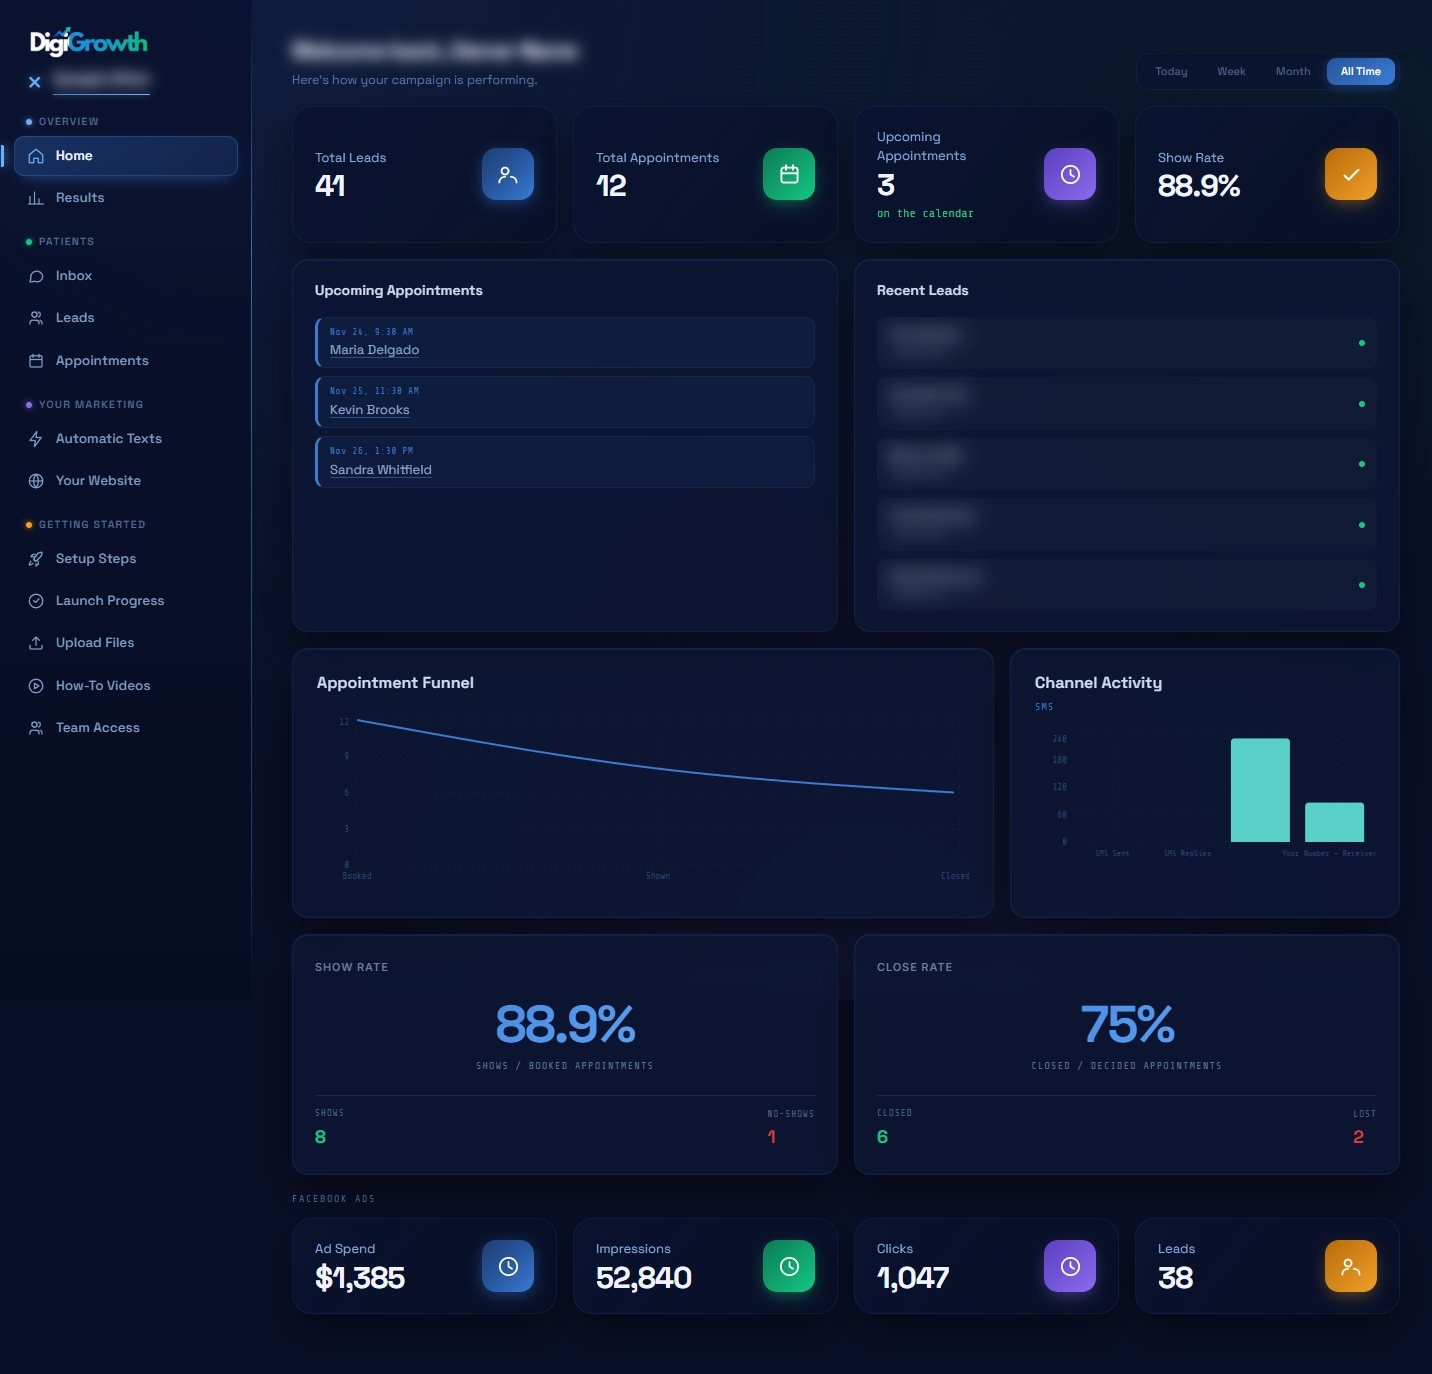
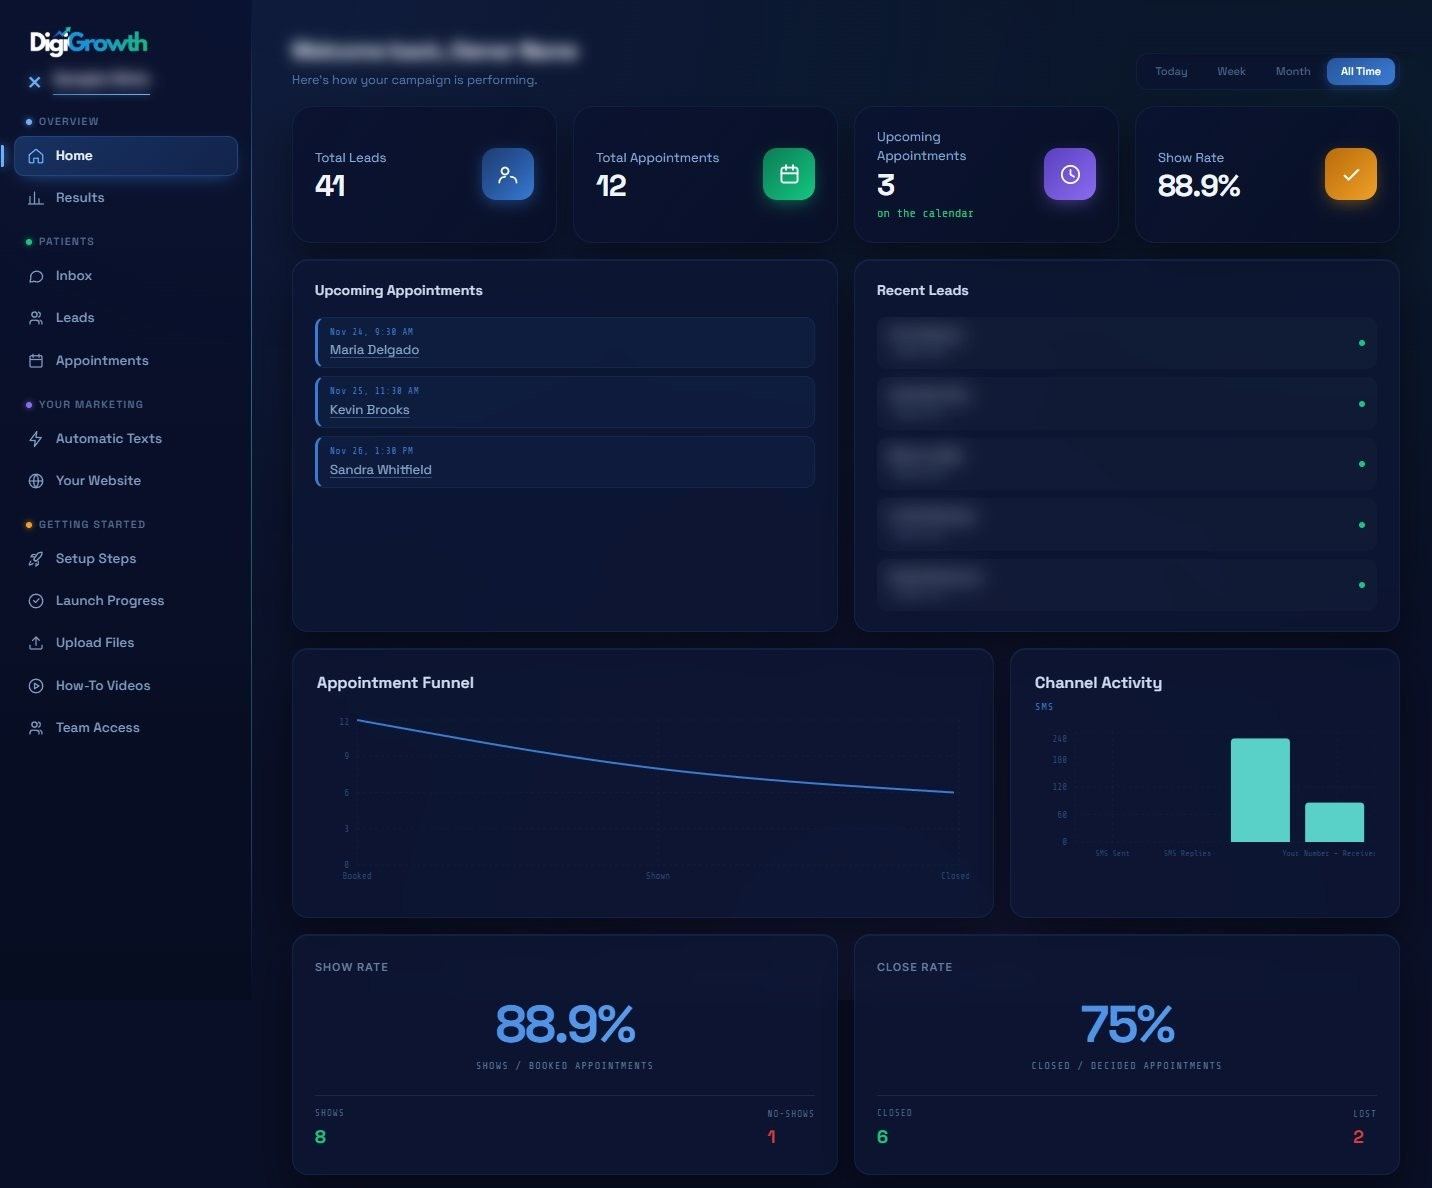
Pinnacle follow-ups use its DigiGrowth booking page; crop Facebook Ads row off client results images
- client_followup_sequence: {link} = the client's DigiGrowth Booking page when enabled (was a leftover Calendly link)
- db.py: test-client seed uses booking.digigrowthllc.com/discovery-call
- Booking page results gallery: images cropped above the Facebook Ads row, cache v=3

diff --git a/dashboard/backend/client_followup_sequence.py b/dashboard/backend/client_followup_sequence.py
@@ -283,6 +283,8 @@ async def send_due_touches():
             f"""
             SELECT c.*, cl.name AS client_name,
                    coalesce(nullif(cmc.calendly_event_type_url, ''), cl.calendly_url) AS booking_link,
+                   (SELECT bs.booking_slug FROM booking_settings bs
+                     WHERE bs.client_id = c.client_id AND bs.enabled) AS dg_booking_slug,
                    (SELECT MAX(m.created_at) {_THREAD_SQL.format(direction='outbound')}) AS last_outbound_at,
                    (SELECT MAX(m.created_at) {_THREAD_SQL.format(direction='inbound')}) AS last_inbound_at
             FROM contacts c
@@ -306,6 +308,10 @@ async def send_due_touches():
 
         for record in rows:
             row = dict(record)
+            # DigiGrowth Booking wins over a leftover Calendly link when it's on.
+            if row.get("dg_booking_slug"):
+                import booking_engine
+                row["booking_link"] = booking_engine.booking_page_url(row["dg_booking_slug"])
             last_outbound_at = row["last_outbound_at"]
             last_inbound_at = row["last_inbound_at"]
             if last_outbound_at is None:

diff --git a/dashboard/backend/personal_booking_page.py b/dashboard/backend/personal_booking_page.py
@@ -179,7 +179,7 @@ function openResults() {
   m.className = "modal"; m.setAttribute("role", "dialog"); m.setAttribute("aria-modal", "true"); m.setAttribute("aria-label", "Example client results");
   m.innerHTML = `<div class="sheet"><button class="close" aria-label="Close">×</button><h2>Example client results <span class="h-stars" aria-hidden="true">★★★★★</span></h2>
     <p class="sub">Every client gets a live portal like this, showing leads, booked visits and cost per booking.</p>
-    ${RESULTS.map((r) => `<figure class="shot"><img src="${BASE}/results/${r.src}?v=2" alt="Client portal dashboard" loading="lazy"></figure>`).join("")}</div>`;
+    ${RESULTS.map((r) => `<figure class="shot"><img src="${BASE}/results/${r.src}?v=3" alt="Client portal dashboard" loading="lazy"></figure>`).join("")}</div>`;
   const close = () => { m.remove(); document.removeEventListener("keydown", onKey); };
   const onKey = (e) => { if (e.key === "Escape") close(); };
   m.onclick = (e) => { if (e.target === m) close(); };

diff --git a/dashboard/backend/db.py b/dashboard/backend/db.py
@@ -943,11 +943,11 @@ async def _create_schema(pool: asyncpg.Pool):
         # Same "stub what needs real per-client credentials" pattern as
         # Twilio/Gmail: no real client has connected their own Calendly yet,
         # so calendly_url stays NULL for everyone except the self-test
-        # client, which reuses DigiGrowth's own internal Calendly (the
+        # client, which reuses Dylan's own booking page (the
         # same CALENDLY_URL the OS's BookingModal.jsx uses) since it's
         # Dylan's own account either way. Idempotent, safe every startup.
         await conn.execute(
-            "UPDATE clients SET calendly_url = 'https://calendly.com/dylanrg-digigrowthllc/30min' "
+            "UPDATE clients SET calendly_url = 'https://booking.digigrowthllc.com/discovery-call' "
             "WHERE name = 'DigiGrowth Test' AND calendly_url IS NULL"
         )
         await conn.execute("""
